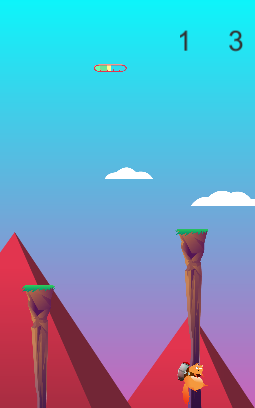
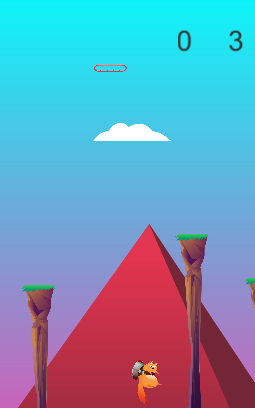
Working on Camera Zoom

diff --git a/Assets/Scripts/UI/CameraZoom.cs b/Assets/Scripts/UI/CameraZoom.cs
@@ -3,28 +3,16 @@ using System.Collections;
 
 public class CameraZoom : MonoBehaviour {
 	public Animator animator;
-	private float timer;
-	public bool firstRun;
-
-	// Use this for initialization
-	void Start () {
-		timer = 3;
-		firstRun = true;
-		animator.enabled = true;
-	}
+	//public bool firstRun;
+	public Canvas menu;
 	
-	// Update is called once per frame
-	void Update () {
-		if(firstRun){
-			timer -= Time.deltaTime;
-			if ( timer< 0 )
-			{
-				animator.SetBool("Zoom", true);
-				firstRun = false;
-				this.enabled = false;
-			}
-		} else {
-			this.enabled = false;
-		}
+	void Start () {
+		animator.enabled = true;
+		menu.enabled = true;
+	}
+
+	public void Play () {
+		animator.SetBool("Zoom", true);
+		menu.enabled = false;
 	}
 }
